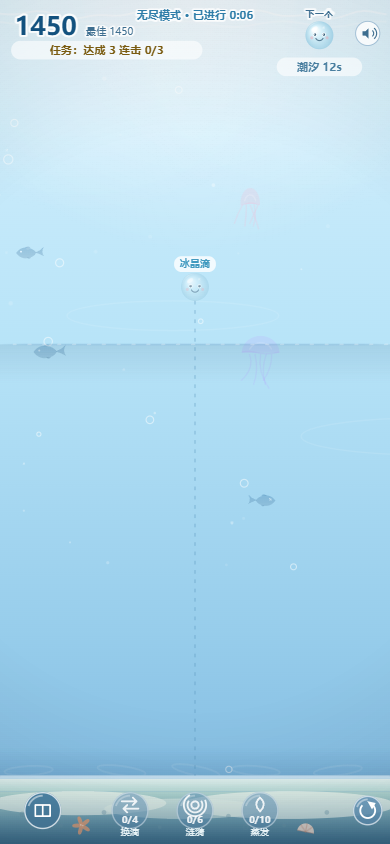
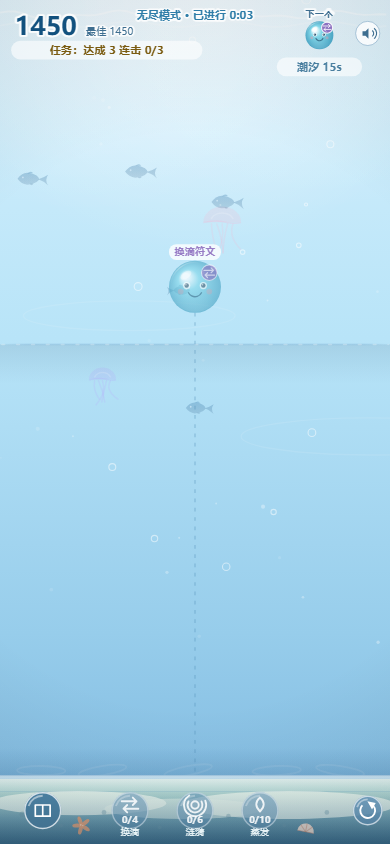
整体优化：确认框/图鉴/结算/广告/蒸发/涟漪/暗角7处遮罩从仅游戏区扩到全窗口(宽窗下两侧不再发亮)；两侧压暗渐变溢入量110→26px消除缸体内明暗台阶；像素采样验证边界过渡平滑(1-2色阶)，布局几何三档校验全过

diff --git a/js/main.js b/js/main.js
@@ -1282,7 +1282,7 @@
 
     // 两侧延伸海水柔和压暗（游戏区居中成为视觉焦点，主流 letterbox 质感）
     if (BX > 0) {
-      var edge = BX + 110;
+      var edge = BX + 26; // 仅轻微溢入游戏区，避免在缸体内形成可见的明暗台阶
       var shadeL = ctx.createLinearGradient(0, 0, edge, 0);
       shadeL.addColorStop(0, 'rgba(16,56,96,0.26)');
       shadeL.addColorStop(1, 'rgba(16,56,96,0)');
@@ -2188,7 +2188,7 @@
   function drawConfirm() {
     if (!confirmOpen) return;
     ctx.fillStyle = 'rgba(10,40,70,0.55)';
-    ctx.fillRect(0, 0, C.W, VH);
+    ctx.fillRect(-BX, 0, C.W + BX * 2, VH);
     var px = 60, py = 300, pw = C.W - 120, ph = 170;
     panel(px, py, pw, ph, 14, 0.97);
     ctx.textAlign = 'center';
@@ -2363,7 +2363,7 @@
   // ---------- 图鉴 ----------
   function drawDex() {
     ctx.fillStyle = 'rgba(10,40,70,0.6)';
-    ctx.fillRect(0, 0, C.W, VH);
+    ctx.fillRect(-BX, 0, C.W + BX * 2, VH);
     panel(DEX_PANEL.x, DEX_PANEL.y, DEX_PANEL.w, DEX_PANEL.h, 14, 0.96);
 
     ctx.textAlign = 'center';
@@ -2470,7 +2470,7 @@
 
   function drawAdOverlay() {
     ctx.fillStyle = 'rgba(0,0,0,0.72)';
-    ctx.fillRect(0, 0, C.W, VH);
+    ctx.fillRect(-BX, 0, C.W + BX * 2, VH);
     ctx.textAlign = 'center';
     ctx.fillStyle = '#FFFFFF';
     ctx.font = 'bold 22px system-ui, sans-serif';
@@ -2485,7 +2485,7 @@
   function drawOver() {
     buildOverButtons();
     ctx.fillStyle = 'rgba(10,40,70,0.55)';
-    ctx.fillRect(0, 0, C.W, VH);
+    ctx.fillRect(-BX, 0, C.W + BX * 2, VH);
 
     var pw = 320, ph = 380, px = (C.W - pw) / 2, py = 170;
     panel(px, py, pw, ph, 16, 0.97);
@@ -2564,7 +2564,7 @@
 
     if (evapMode) {
       ctx.fillStyle = 'rgba(10,40,70,0.18)';
-      ctx.fillRect(0, 0, C.W, VH);
+      ctx.fillRect(-BX, 0, C.W + BX * 2, VH);
       var hb = ballAt(lastPointer);
       if (hb) {
         ctx.save();
@@ -2585,7 +2585,7 @@
     // 涟漪选位模式：显示波纹中心指示
     if (rippleMode) {
       ctx.fillStyle = 'rgba(10,40,70,0.12)';
-      ctx.fillRect(0, 0, C.W, VH);
+      ctx.fillRect(-BX, 0, C.W + BX * 2, VH);
       var rx = Math.max(12, Math.min(C.W - 12, lastPointer.x < 0 ? C.W / 2 : lastPointer.x));
       var ry = Math.max(C.containerTop + 30, Math.min(FLOORY - 16, lastPointer.y < 0 ? (C.containerTop + FLOORY) / 2 : lastPointer.y));
       ctx.save();
@@ -2616,7 +2616,7 @@
     vg.addColorStop(0, 'rgba(0,0,0,0)');
     vg.addColorStop(1, 'rgba(6,28,52,0.16)');
     ctx.fillStyle = vg;
-    ctx.fillRect(0, 0, C.W, VH);
+    ctx.fillRect(-BX, 0, C.W + BX * 2, VH);
 
     drawHUD();
     drawLevelHud();

diff --git a/index.html b/index.html
@@ -21,8 +21,8 @@
 </head>
 <body>
   <canvas id="game"></canvas>
-  <script src="js/config.js?v=51"></script>
-  <script src="js/physics.js?v=51"></script>
-  <script src="js/main.js?v=51"></script>
+  <script src="js/config.js?v=52"></script>
+  <script src="js/physics.js?v=52"></script>
+  <script src="js/main.js?v=52"></script>
 </body>
 </html>
